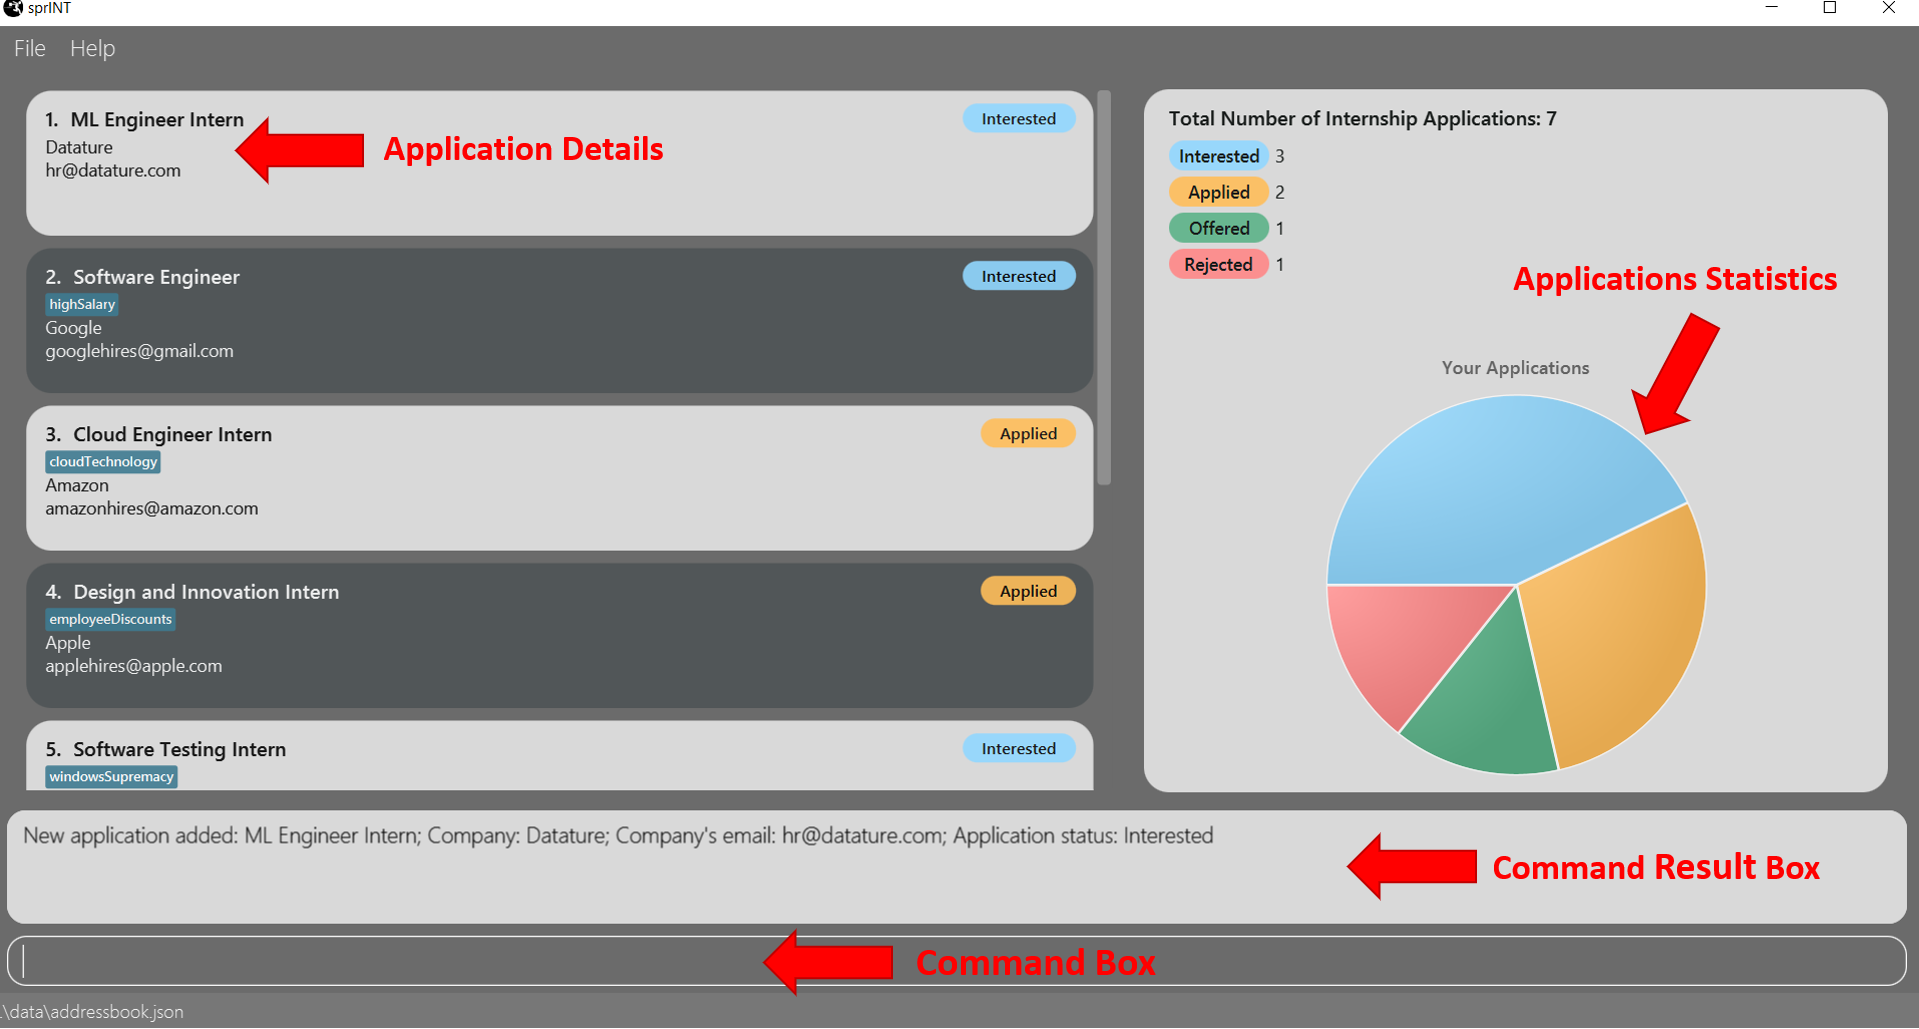
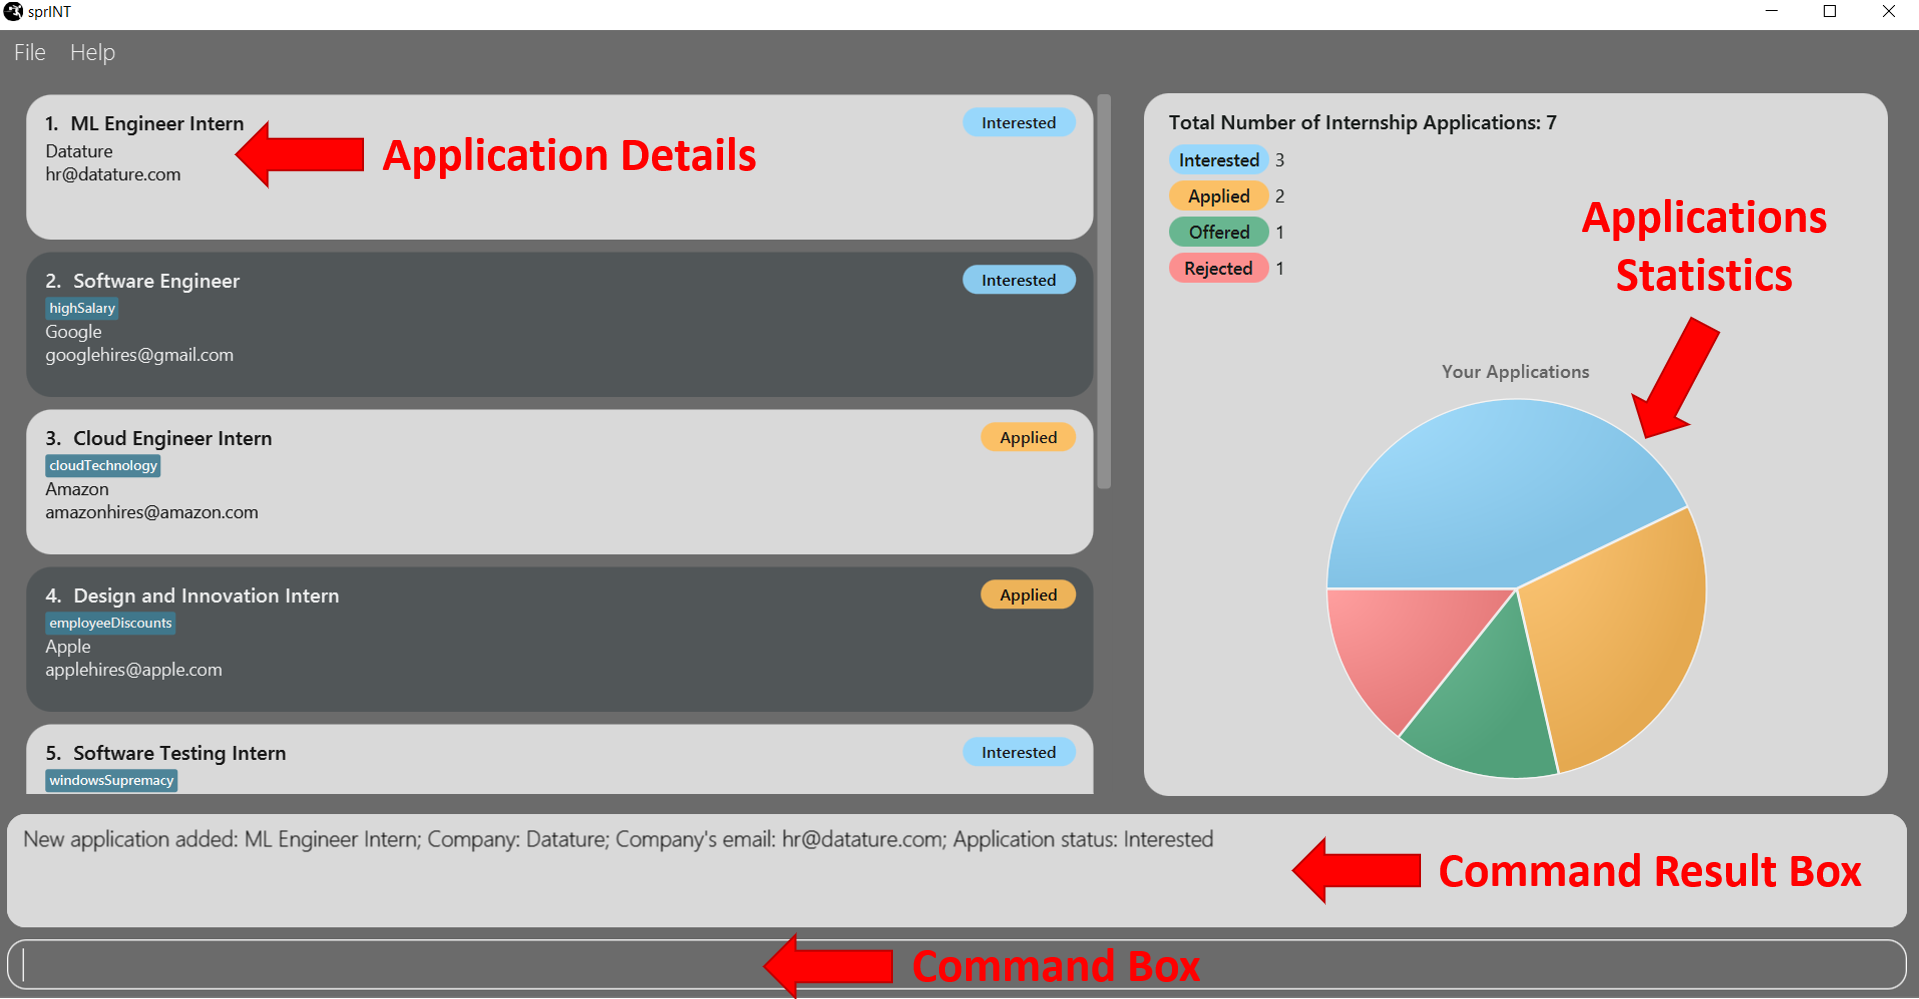
Update images in UG

diff --git a/docs/UserGuide.md b/docs/UserGuide.md
@@ -367,7 +367,7 @@ Data in the internship book are automatically saved in your local storage after 
 
 #### 4.4.7 Editing the data file
 
-Data in the internship book are saved as a JSON file `[JAR file location]/data/addressbook.json`. Advanced users are welcome to update their data directly by editing that data file.
+Data in the internship book are saved as a JSON file `[JAR file location]/data/sprint.json`. Advanced users are welcome to update their data directly by editing that data file.
 
 <div markdown="span" class="alert alert-warning">:exclamation: **Caution:**
 If your changes to the data file makes its format invalid, the internship book will discard all data and start with an empty data file at the next run.
